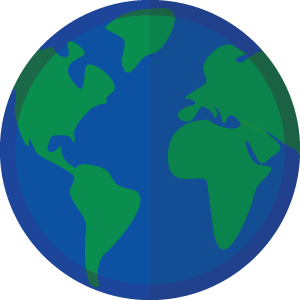
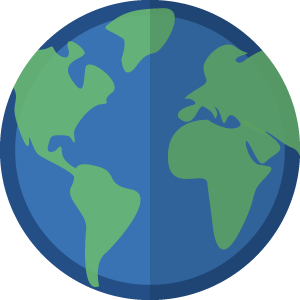
[finishes#44832687] new illustrations

diff --git a/app/assets/stylesheets/sections/_home.scss b/app/assets/stylesheets/sections/_home.scss
@@ -146,6 +146,10 @@ section.how-it-works {
     @include adjust-font-size-to(30px);
     margin: 10px 0 20px;
     color: $gray7;
+
+    @media (max-width: 767px) {
+      margin-top: 30px;
+    }
   }
 
   p {
@@ -154,9 +158,17 @@ section.how-it-works {
   }
 
   .btn {
-    width: 300px;
-    margin-bottom: 50px;
+    width: auto;
+    max-width: 300px;
+    margin:0 auto 50px;
   }  
+
+  hr {
+    height: 0;
+    background: none;
+    border: none;
+    border-bottom: 1px dashed $gray4;
+  }
 
   p {
     @media (max-width: 767px) {
